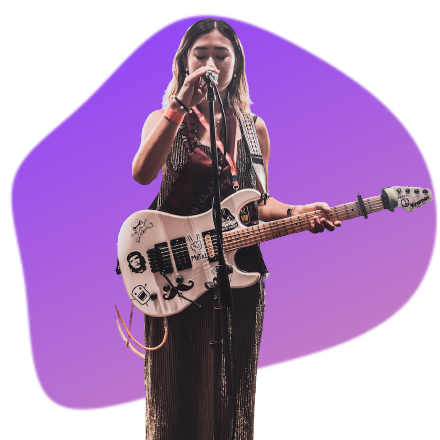
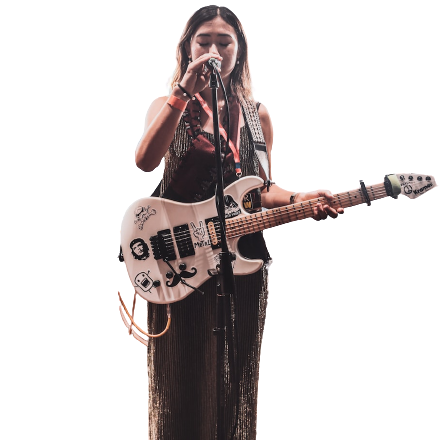
Added hero-img's background as ::before to keep resoloution

diff --git a/style.css b/style.css
@@ -117,8 +117,8 @@ header img {
 	background-repeat: no-repeat;
 	height: 58svh;
 	aspect-ratio: 1/1;
-	bottom: -25svh;
-	left: -25svw;
+	bottom: -150px;
+	left: -100px;
 	z-index: -1;
 }
 
@@ -153,7 +153,7 @@ header img {
 	}
 }
 
-@media only screen and (min-width: 825px) {
+@media only screen and (min-width: 1100px) {
 	.hero-info {
 		width: 50svw;
 		align-items: flex-start;
@@ -178,12 +178,26 @@ header img {
 	}
 
 	.buttons a {
-		font-size: 1rem;
+		font-size: 1.5rem;
+	}
+
+	.hero-info::before {
+		content: "";
+		position: absolute;
+		z-index: 0;
+		right: 15px;
+		bottom: 0;
+		width: 45svw;
+		height: 100%;
+		background-size: contain;
+		background-repeat: no-repeat;
+		background-position: bottom;
+
+		background-image: url(./assets/blob-secondary.svg);
 	}
 
 	.hero-info::after {
 		content: "";
-		z-index: 1;
 		position: absolute;
 		z-index: 0;
 		right: 0;
